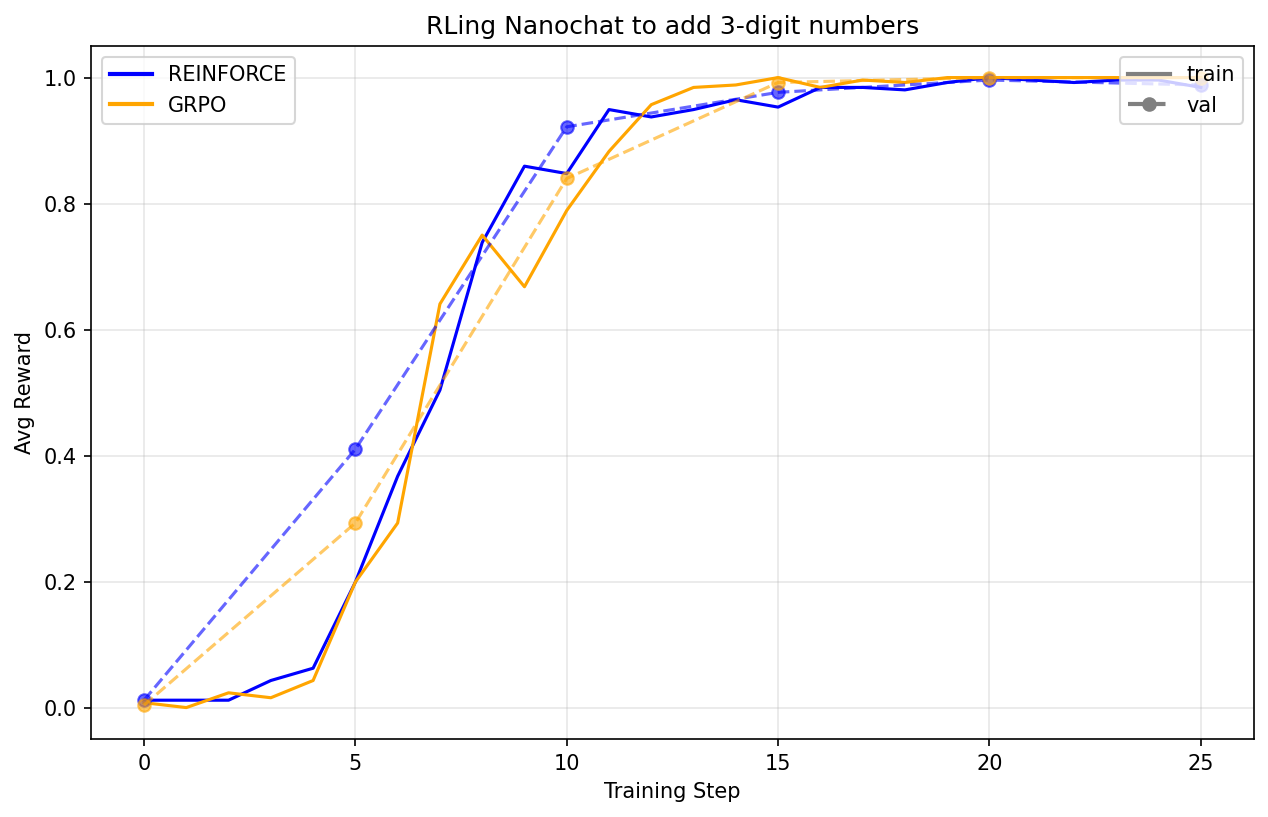
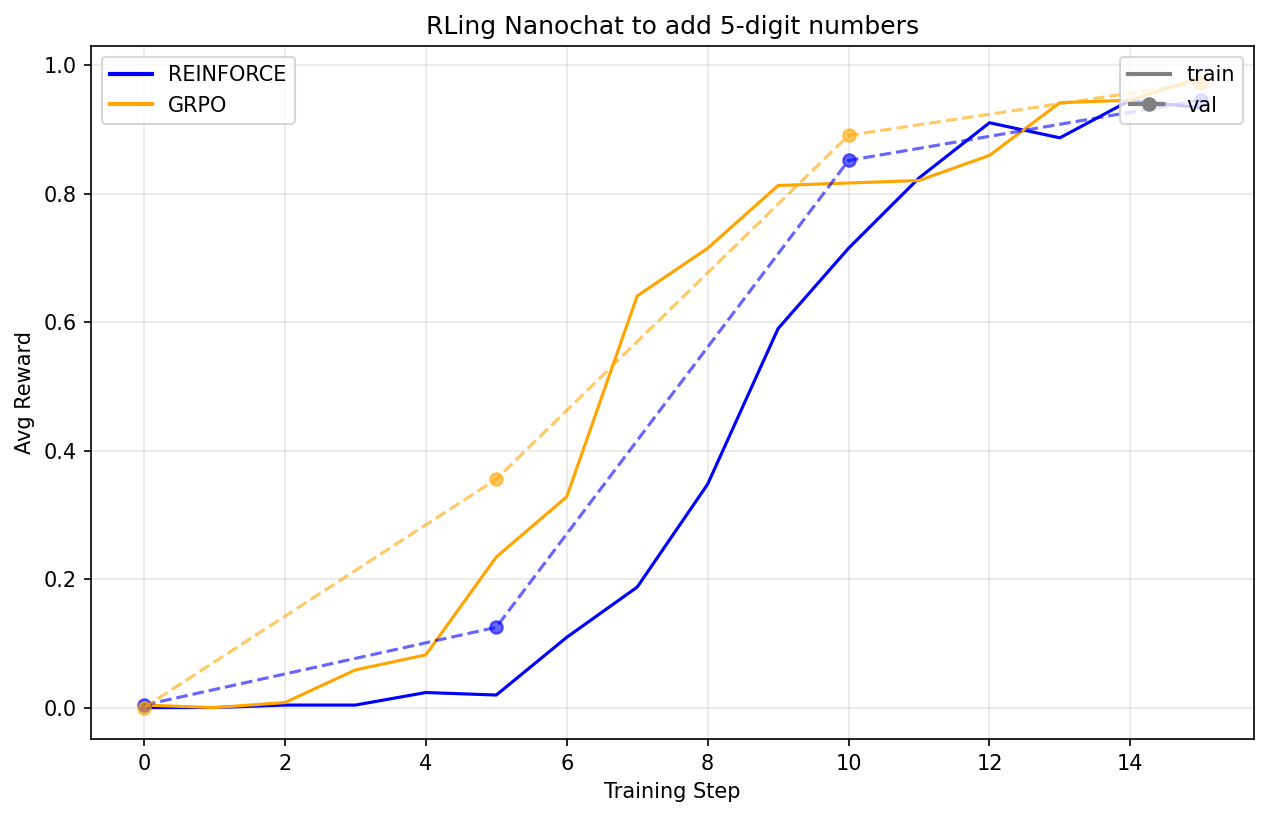
it works!

diff --git a/scripts/simple_rl.py b/scripts/simple_rl.py
@@ -1,5 +1,5 @@
 """
-Simple RL training script for teaching a model to add two three-digit numbers.
+Simple RL training script for teaching a model to add.
 Demonstrates REINFORCE and GRPO algorithms in a minimal, clean implementation.
 """
 import random
@@ -16,18 +16,21 @@ from nanochat.engine import Engine
 
 
 # Config
-num_steps = 26
+num_steps = 16
 problems_per_step = 16
 samples_per_problem = 16
 max_new_tokens = 256  
 temperature = 1.0  
 top_k = 50
 
+max_addend = int(1e5)
+fraction_val = 0.1
+len_val_addends = int(max_addend * fraction_val)
 # Randomly split numbers into train/val sets
-all_numbers = list(range(100, 1000))
+all_numbers = list(range(max_addend))
 random.shuffle(all_numbers)
-val_numbers = set(all_numbers[:100])  # 100 numbers for validation
-train_numbers = set(all_numbers[100:])  # 800 numbers for training
+val_numbers = set(all_numbers[:len_val_addends])
+train_numbers = set(all_numbers[len_val_addends:])
 
 ddp, ddp_rank, ddp_local_rank, ddp_world_size, device = compute_init()
 autocast_ctx = torch.amp.autocast(device_type="cuda", dtype=torch.bfloat16)
@@ -108,6 +111,7 @@ def train(loss_function):
     optimizers = model.setup_optimizers(
         unembedding_lr=0.0004, embedding_lr=0.02, matrix_lr=0.002, weight_decay=0.0
     )
+    python_start = tokenizer.encode_special("<|python_start|>")
     
     problem_iterator = get_problem(engine, tokenizer, number_set=train_numbers)
     train_rewards, val_rewards = [], []
@@ -116,6 +120,7 @@ def train(loss_function):
         step_start = time.time()
         rewards_list = []
         seq_lens = []
+        seqs_with_python = 0
         
         for problem in range(problems_per_step):
             sequences, inputs, targets, rewards, advantages = next(problem_iterator)
@@ -133,6 +138,8 @@ def train(loss_function):
             
             rewards_list.append(rewards.mean().item())
             seq_lens.append(len(sequences[0]))
+            seqs_with_python += sum(python_start in seq for seq in sequences)
+
         
         for opt in optimizers:
             opt.step()
@@ -147,8 +154,9 @@ def train(loss_function):
         
         avg_seq_len = sum(seq_lens) / len(seq_lens)
         step_time = time.time() - step_start
+        frac_seqs_with_python = seqs_with_python / (problems_per_step * samples_per_problem)
         
-        log_msg = f"Step {step + 1}/{num_steps} | Train: {train_reward:.2f} | Time: {step_time:.1f}s | Seq Len: {round(avg_seq_len)}"
+        log_msg = f"Step {step + 1}/{num_steps} | Train: {train_reward:.2f} | Time: {step_time:.1f}s | Seq Len: {round(avg_seq_len)} | Python Use: {frac_seqs_with_python:.2f}"
         if val_reward is not None:
             log_msg += f" | Val: {val_reward:.2f}"
         print(log_msg)
@@ -156,16 +164,18 @@ def train(loss_function):
     return model, train_rewards, val_rewards
 
 def save_model(model, name):
-    checkpoint_dir = os.path.join(get_base_dir(), name)
+    base_dir = get_base_dir()
+    depth = model.config.n_layer
+    model_tag = f"d{depth}"
+    checkpoint_dir = os.path.join(base_dir, "chatrl_checkpoints", f"{model_tag}_{name}")
     save_checkpoint(
         checkpoint_dir,
         num_steps,
         model.state_dict(),
         None,
-        {
-            "model_config": model.config.__dict__,
-        }
+        {"model_config": model.config.__dict__}
     )
+    print(f"✅ Saved {name} model to {checkpoint_dir}")
 
 def plot_rewards(reinforce_train, reinforce_val, grpo_train, grpo_val):
     fig, ax = plt.subplots(figsize=(10, 6))
@@ -191,7 +201,7 @@ def plot_rewards(reinforce_train, reinforce_val, grpo_train, grpo_val):
     ax.legend(handles=split_handles, loc='upper right')
     
     ax.set(xlabel='Training Step', ylabel='Avg Reward', 
-           title='RLing Nanochat to add 3-digit numbers')
+           title='RLing Nanochat to add 5-digit numbers')
     ax.grid(alpha=0.3)
     fig.savefig('simple_rl_training_curves.png', dpi=150, bbox_inches='tight')
     print("\nSaved plot to simple_rl_training_curves.png")
